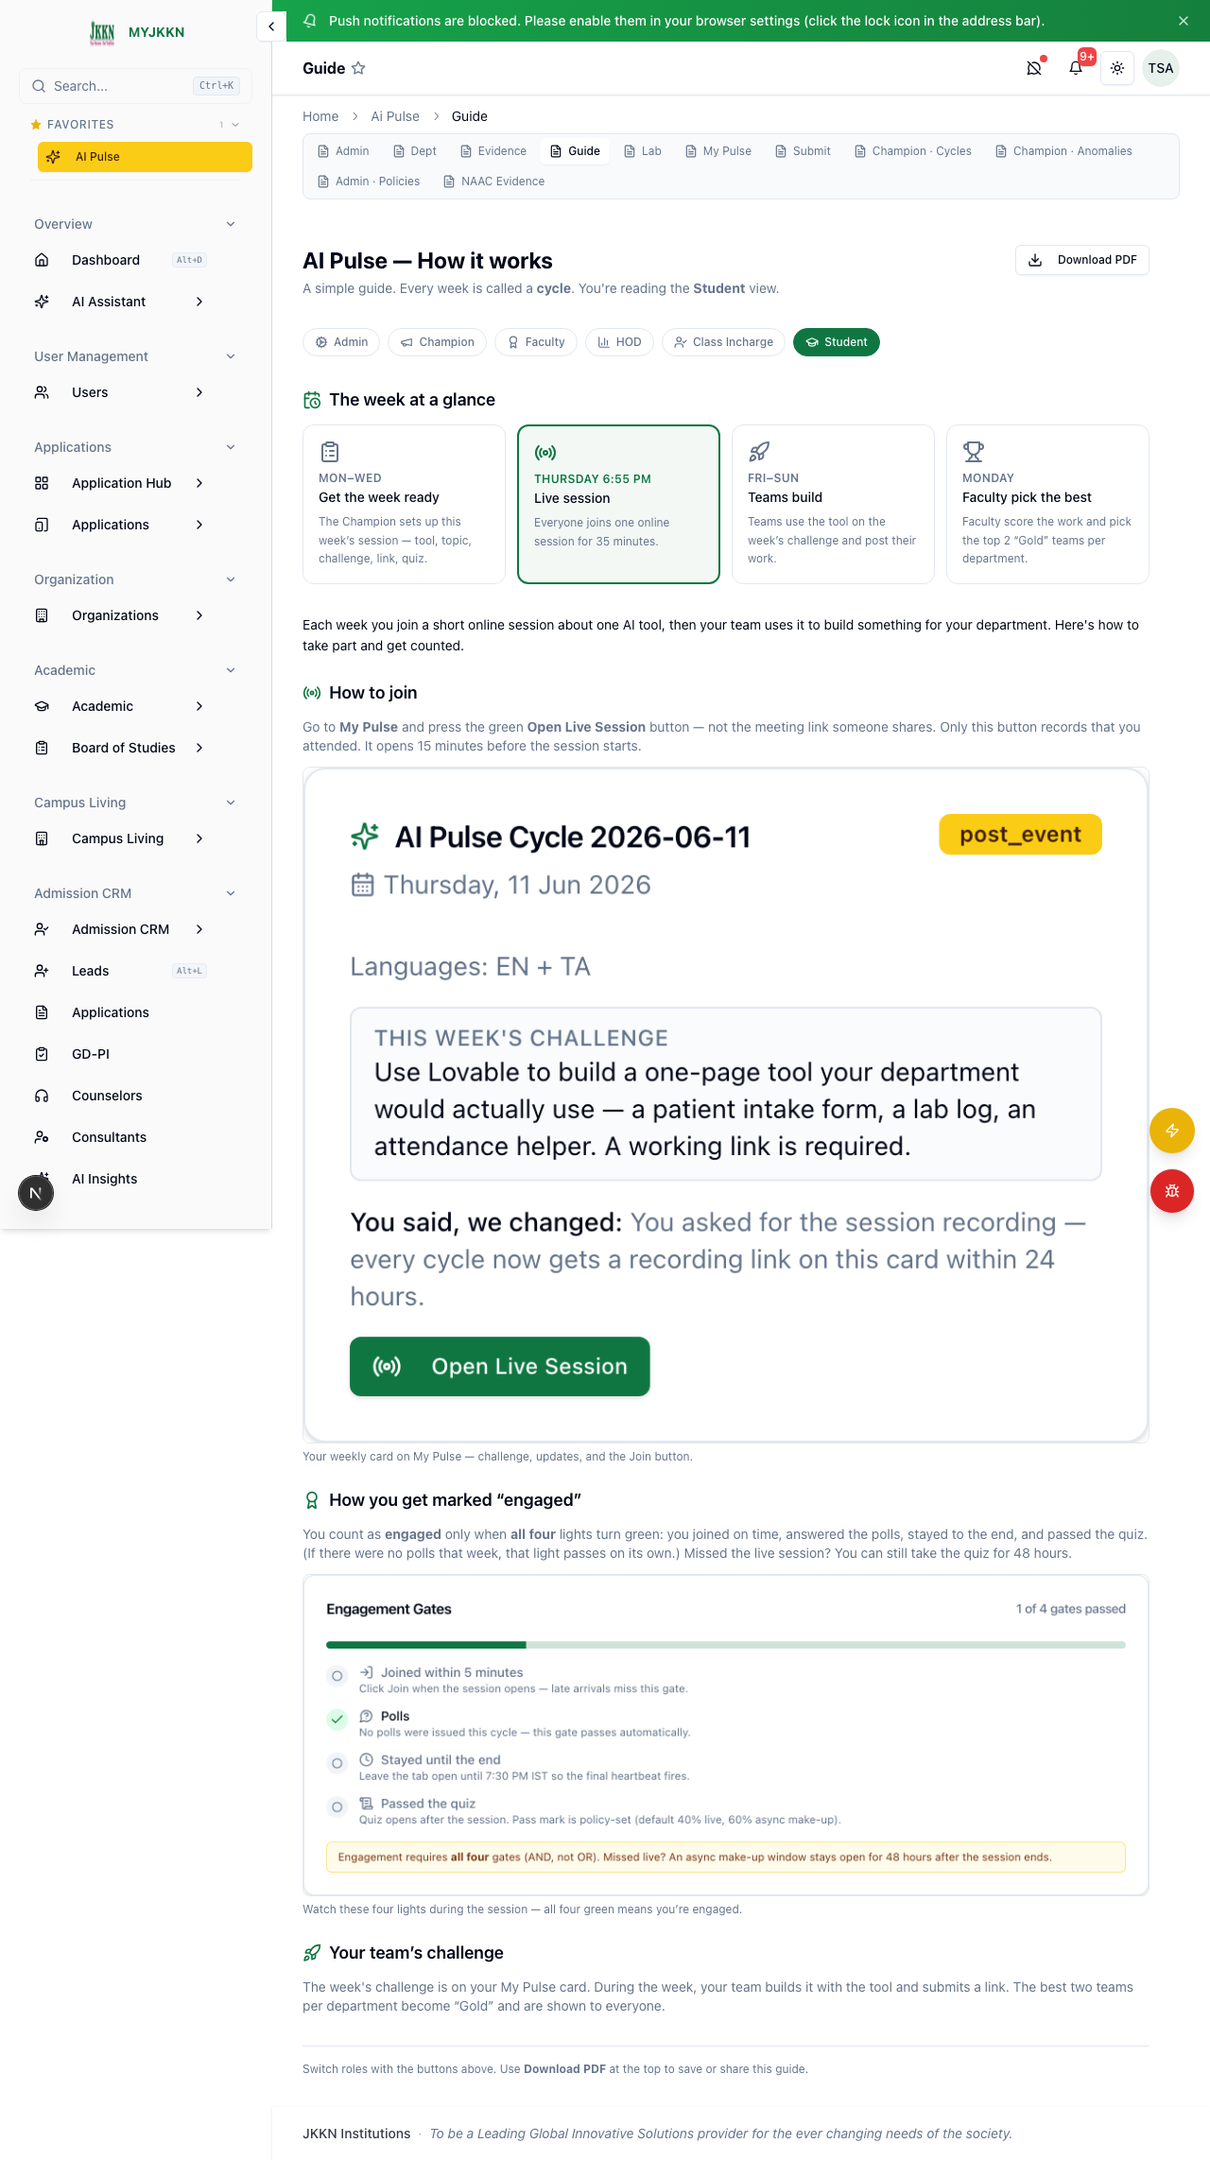
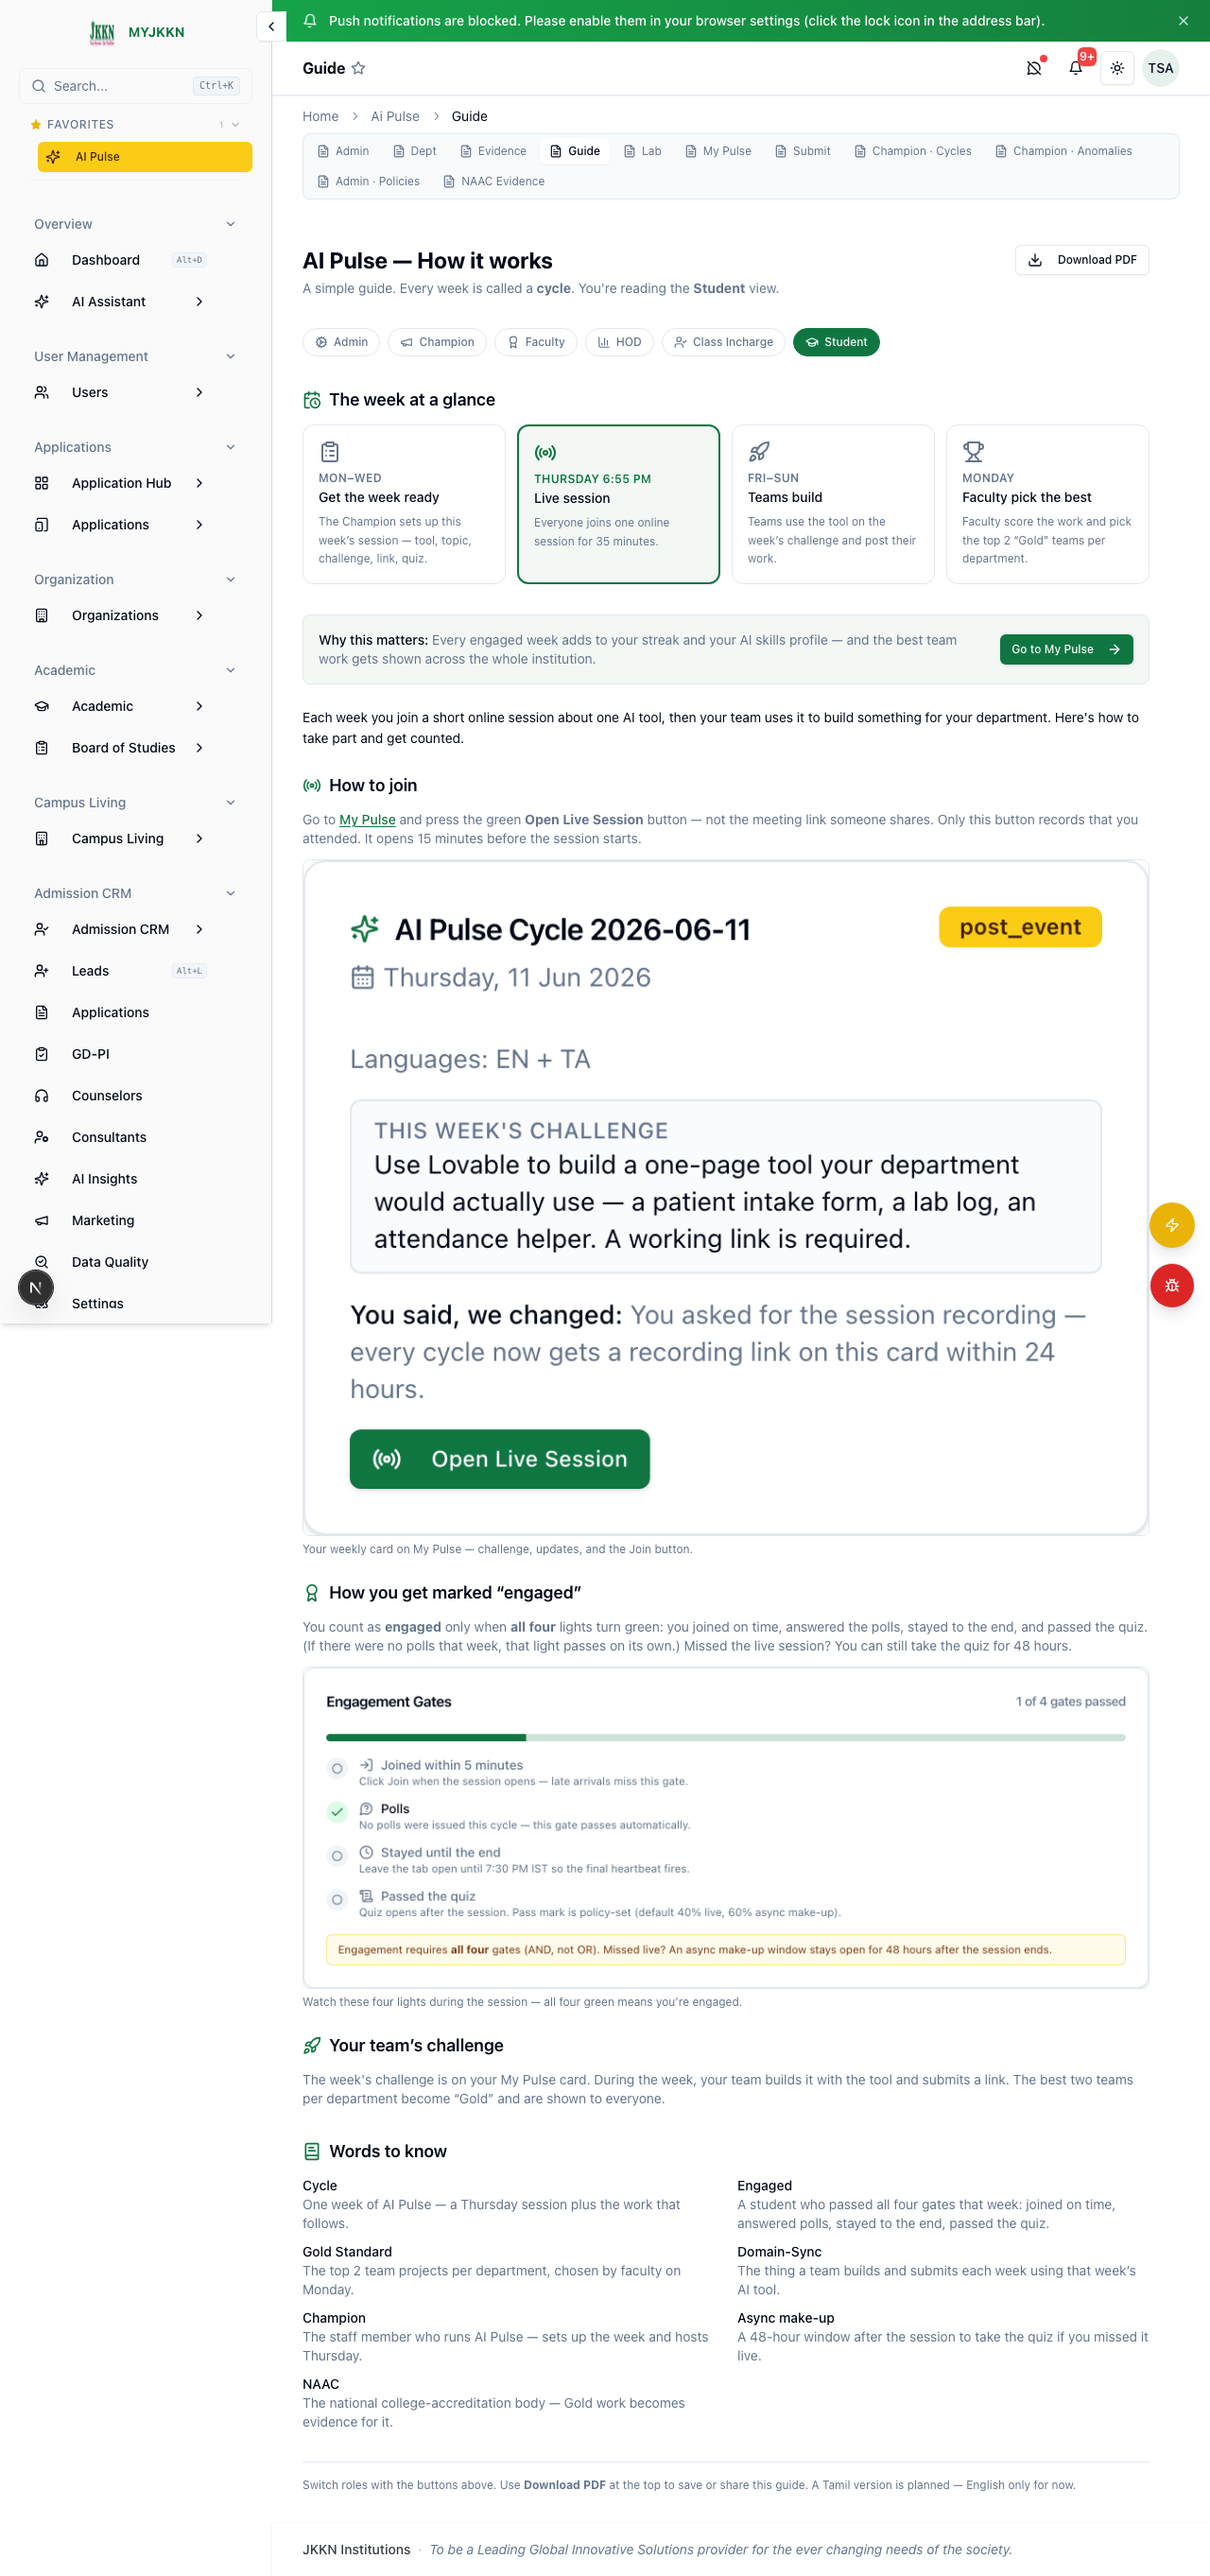
feat(ai-pulse): guide clickable links + glossary + why-it-matters + mobile verified
12th-grader gap-closing pass on the role-aware guide:

- Clickable links: every named screen jumps straight there — My Pulse,
  Champion · Cycles, Lab, Dept, Admin · Policies, Anomalies, NAAC Evidence
  (quiz routes via Cycles since it's per-cycle). GuideLink helper; works
  inside prose and numbered steps.
- 'Words to know' glossary (shared, all lanes): plain-language defs for
  cycle, engaged, Gold Standard, Domain-Sync, Champion, async make-up,
  NAAC — the undefined nouns that stalled a newcomer.
- 'Why this matters' + a Start-here button at the top of each lane
  (Student→My Pulse, Champion→Cycles, Faculty→Lab, HOD→Dept,
  Admin→Policies; Class Incharge = why-line only, no single console).
  Closes the CARE Clarity gap (motivation + obvious first action).
- Tamil note in the footer — flagged as planned, NOT auto-generated
  (needs native review per non-Latin corruption rule).
- Mobile verified at 390px: title wraps, lane pills reflow, timeline +
  glossary stack to one column, why-block button goes full-width.

Verify: tsc 1009 == baseline (the lone my-pulse line is the pre-existing
AiPulseAttendance type issue, line-shifted by +2 import lines, not mine).
Visual proof: desktop student lane (glossary + why + links) +
mobile student lane.

diff --git a/app/(routes)/ai-pulse/guide/page.tsx b/app/(routes)/ai-pulse/guide/page.tsx
@@ -23,6 +23,7 @@
 // ============================================================================
 
 import { useMemo, useState } from 'react';
+import Link from 'next/link';
 
 import {
   ShieldAlert,
@@ -38,6 +39,8 @@ import {
   UserCheck,
   BarChart3,
   Cog,
+  ArrowRight,
+  BookText,
 } from 'lucide-react';
 
 import { ContentLayout } from '@/components/layout/content-layout';
@@ -64,6 +67,40 @@ const TIMELINE: Array<{
   { when: 'Monday', title: 'Faculty pick the best', body: 'Faculty score the work and pick the top 2 “Gold” teams per department.', Icon: Trophy },
 ];
 
+// "Why this matters" + a one-tap jump to the screen this persona works in.
+// href/label optional — Class Incharge has no single console, so it shows the
+// why line only.
+function LaneStart({ why, href, label }: { why: string; href?: string; label?: string }) {
+  return (
+    <div className="rounded-lg border bg-primary/5 p-4 flex flex-col gap-3 sm:flex-row sm:items-center sm:justify-between">
+      <p className="text-sm">
+        <span className="font-medium">Why this matters: </span>
+        <span className="text-muted-foreground">{why}</span>
+      </p>
+      {href && label && (
+        <Button asChild size="sm" className="shrink-0 print:hidden">
+          <Link href={href}>
+            {label}
+            <ArrowRight className="h-4 w-4 ml-1.5" aria-hidden />
+          </Link>
+        </Button>
+      )}
+    </div>
+  );
+}
+
+// Plain-language glossary — shown to every lane so undefined nouns
+// (Domain-Sync, Gold, NAAC…) get decoded once, up front.
+const GLOSSARY: Array<[string, string]> = [
+  ['Cycle', 'One week of AI Pulse — a Thursday session plus the work that follows.'],
+  ['Engaged', 'A student who passed all four gates that week: joined on time, answered polls, stayed to the end, passed the quiz.'],
+  ['Gold Standard', 'The top 2 team projects per department, chosen by faculty on Monday.'],
+  ['Domain-Sync', 'The thing a team builds and submits each week using that week’s AI tool.'],
+  ['Champion', 'The staff member who runs AI Pulse — sets up the week and hosts Thursday.'],
+  ['Async make-up', 'A 48-hour window after the session to take the quiz if you missed it live.'],
+  ['NAAC', 'The national college-accreditation body — Gold work becomes evidence for it.'],
+];
+
 function GuideImage({ src, alt, caption }: { src: string; alt: string; caption: string }) {
   return (
     <figure className="my-3">
@@ -76,6 +113,19 @@ function GuideImage({ src, alt, caption }: { src: string; alt: string; caption: 
   );
 }
 
+// A clickable jump-to-the-screen link. Opens in the same tab; the guide is a
+// reference users leave and come back to via the Guide chip.
+function GuideLink({ href, children }: { href: string; children: React.ReactNode }) {
+  return (
+    <Link
+      href={href}
+      className="font-medium text-primary underline underline-offset-2 hover:no-underline"
+    >
+      {children}
+    </Link>
+  );
+}
+
 function SectionHeading({ Icon, children }: { Icon: React.ComponentType<{ className?: string }>; children: React.ReactNode }) {
   return (
     <div className="flex items-center gap-2 mb-3">
@@ -85,7 +135,7 @@ function SectionHeading({ Icon, children }: { Icon: React.ComponentType<{ classN
   );
 }
 
-function NumberedList({ items }: { items: Array<{ title: string; body: string }> }) {
+function NumberedList({ items }: { items: Array<{ title: string; body: React.ReactNode }> }) {
   return (
     <ol className="space-y-2.5">
       {items.map((c, i) => (
@@ -110,6 +160,11 @@ function NumberedList({ items }: { items: Array<{ title: string; body: string }>
 function StudentLane() {
   return (
     <div className="space-y-6">
+      <LaneStart
+        why="Every engaged week adds to your streak and your AI skills profile — and the best team work gets shown across the whole institution."
+        href="/ai-pulse/my-pulse"
+        label="Go to My Pulse"
+      />
       <p className="text-sm leading-relaxed">
         Each week you join a short online session about one AI tool, then your
         team uses it to build something for your department. Here&apos;s how to
@@ -119,10 +174,10 @@ function StudentLane() {
       <section>
         <SectionHeading Icon={Radio}>How to join</SectionHeading>
         <p className="text-sm text-muted-foreground">
-          Go to <strong>My Pulse</strong> and press the green{' '}
-          <strong>Open Live Session</strong> button — not the meeting link
-          someone shares. Only this button records that you attended. It opens
-          15 minutes before the session starts.
+          Go to <GuideLink href="/ai-pulse/my-pulse">My Pulse</GuideLink> and
+          press the green <strong>Open Live Session</strong> button — not the
+          meeting link someone shares. Only this button records that you
+          attended. It opens 15 minutes before the session starts.
         </p>
         <GuideImage
           src="/images/ai-pulse-guide/my-pulse-card.png"
@@ -163,10 +218,15 @@ function StudentLane() {
 function ChampionLane() {
   return (
     <div className="space-y-6">
+      <LaneStart
+        why="A fully set-up week is the difference between real engagement and a week that scores 0%."
+        href="/ai-pulse/admin/cycles"
+        label="Open Champion · Cycles"
+      />
       <p className="text-sm leading-relaxed">
         You set up each week and host the Thursday session. Open{' '}
-        <strong>AI Pulse → Champion · Cycles</strong> and click this week&apos;s
-        cycle. Fill the form top to bottom:
+        <GuideLink href="/ai-pulse/admin/cycles">Champion · Cycles</GuideLink>{' '}
+        and click this week&apos;s cycle. Fill the form top to bottom:
       </p>
       <NumberedList
         items={[
@@ -190,12 +250,17 @@ function ChampionLane() {
 function FacultyLane() {
   return (
     <div className="space-y-6">
+      <LaneStart
+        why="Your picks are the only work that counts as Gold for accreditation — your judgement is the scoreboard."
+        href="/ai-pulse/lab"
+        label="Open the Lab"
+      />
       <p className="text-sm leading-relaxed">
         On Monday you judge the week&apos;s work and pick the best teams.
       </p>
       <NumberedList
         items={[
-          { title: 'Open the Lab', body: 'Go to AI Pulse → Lab. It opens on the most recent session whose Thursday has passed.' },
+          { title: 'Open the Lab', body: <>Go to <GuideLink href="/ai-pulse/lab">Lab</GuideLink>. It opens on the most recent session whose Thursday has passed.</> },
           { title: 'Read each team’s submission', body: 'Judge it against the week’s stated challenge — does it actually solve the problem?' },
           { title: 'Score and pick the top 2 per department', body: 'These become the “Gold Standard” teams.' },
         ]}
@@ -212,6 +277,7 @@ function FacultyLane() {
 function InchargeLane() {
   return (
     <div className="space-y-6">
+      <LaneStart why="Your section only gets counted if attendance is marked — you keep everyone on the board." />
       <p className="text-sm leading-relaxed">
         You keep your section&apos;s participation on track.
       </p>
@@ -229,12 +295,17 @@ function InchargeLane() {
 function HodLane() {
   return (
     <div className="space-y-6">
+      <LaneStart
+        why="The heatmap is your early warning — a row of misses is where you step in before it becomes a problem."
+        href="/ai-pulse/dept"
+        label="Open the Heatmap"
+      />
       <p className="text-sm leading-relaxed">
         You watch how your department is taking part, week over week.
       </p>
       <NumberedList
         items={[
-          { title: 'Open the heatmap', body: 'Go to AI Pulse → Dept. Each row is a department; each cell is a week. Green = engaged, faded = missed.' },
+          { title: 'Open the heatmap', body: <>Go to <GuideLink href="/ai-pulse/dept">Dept</GuideLink>. Each row is a department; each cell is a week. Green = engaged, faded = missed.</> },
           { title: 'Spot the pattern', body: 'A row of misses for your department is the signal to step in — the system tiers this from a nudge to a flag.' },
           { title: 'Intervene', body: 'Use the intervene action to start an HOD conversation when a department keeps missing.' },
         ]}
@@ -246,14 +317,19 @@ function HodLane() {
 function AdminLane() {
   return (
     <div className="space-y-6">
+      <LaneStart
+        why="These settings shape how the whole program behaves and stays fair."
+        href="/ai-pulse/admin/policies"
+        label="Open Policies"
+      />
       <p className="text-sm leading-relaxed">
         You set the rules the whole program runs on, and keep it honest.
       </p>
       <NumberedList
         items={[
-          { title: 'Policies', body: 'AI Pulse → Admin · Policies sets session times, pass marks, the join doors-open window, and consequence thresholds.' },
-          { title: 'Anomalies', body: 'Review flagged activity (unusual scores, reach, or rotation) at Champion · Anomalies.' },
-          { title: 'NAAC evidence', body: 'Export the accreditation evidence pack when needed.' },
+          { title: 'Policies', body: <><GuideLink href="/ai-pulse/admin/policies">Admin · Policies</GuideLink> sets session times, pass marks, the join doors-open window, and consequence thresholds.</> },
+          { title: 'Anomalies', body: <>Review flagged activity (unusual scores, reach, or rotation) at <GuideLink href="/ai-pulse/admin/anomalies">Champion · Anomalies</GuideLink>.</> },
+          { title: 'NAAC evidence', body: <>Export the accreditation evidence pack at <GuideLink href="/ai-pulse/evidence/naac">NAAC Evidence</GuideLink> when needed.</> },
         ]}
       />
       <section>
@@ -442,11 +518,25 @@ export default function AiPulseGuidePage() {
           <ActiveContent />
         </section>
 
+        {/* Words to know — shared glossary so jargon is decoded once */}
+        <section>
+          <SectionHeading Icon={BookText}>Words to know</SectionHeading>
+          <dl className="grid gap-x-6 gap-y-2.5 sm:grid-cols-2">
+            {GLOSSARY.map(([term, def]) => (
+              <div key={term} className="text-sm">
+                <dt className="font-medium">{term}</dt>
+                <dd className="text-muted-foreground">{def}</dd>
+              </div>
+            ))}
+          </dl>
+        </section>
+
         <p className="text-xs text-muted-foreground border-t pt-4">
           {showSwitcher
             ? 'Switch roles with the buttons above. '
             : ''}
           Use <strong>Download PDF</strong> at the top to save or share this guide.
+          {' '}A Tamil version is planned — English only for now.
         </p>
       </div>
     </ContentLayout>
